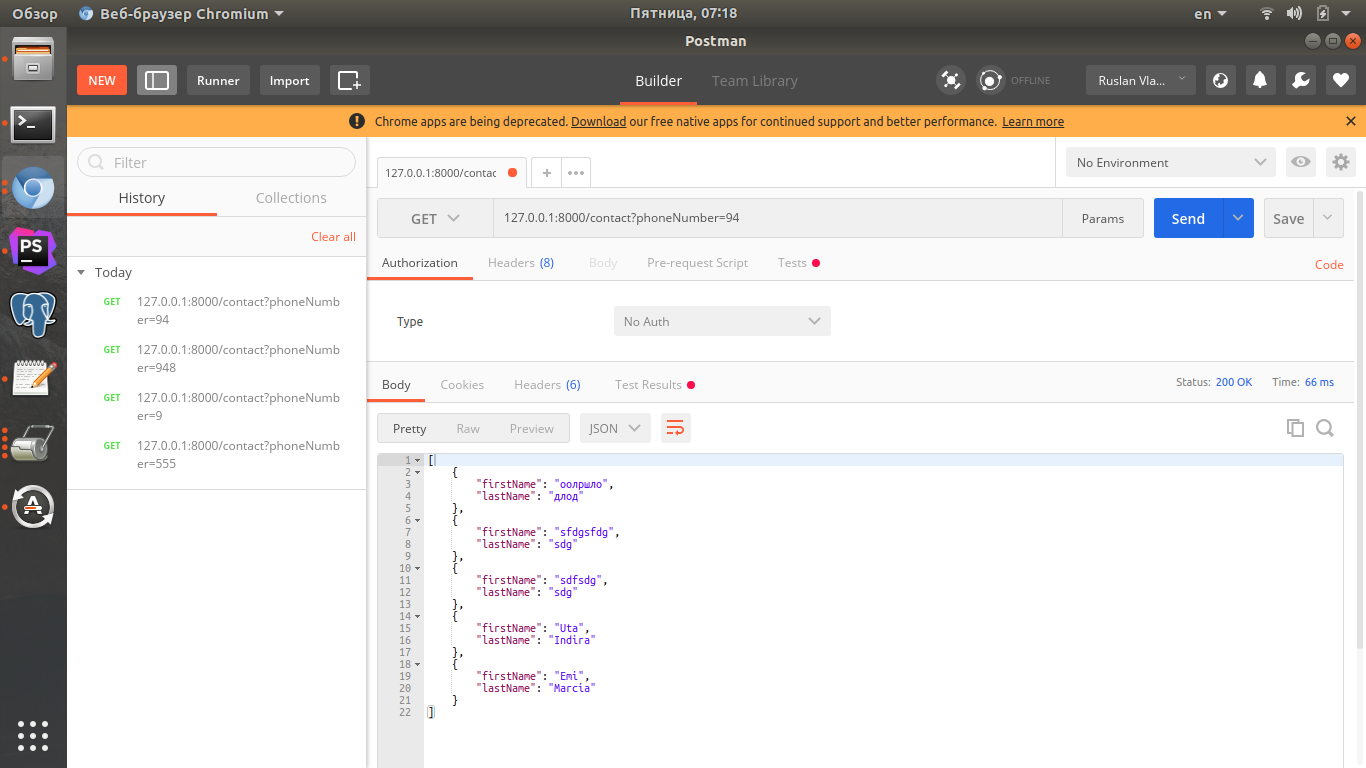
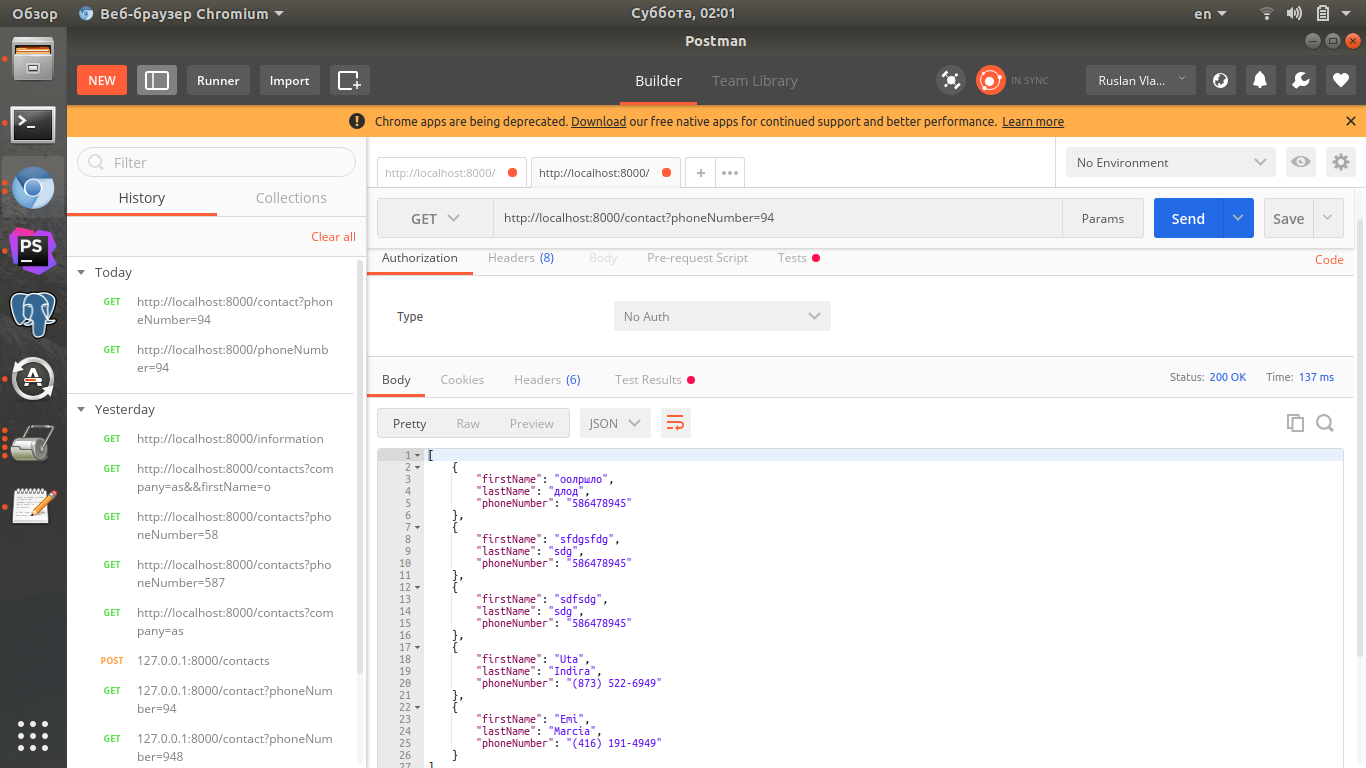
autoload

diff --git a/server/controllers/contacts.js b/server/controllers/contacts.js
@@ -76,7 +76,7 @@ module.exports = {
 
     one(req, res) {
         const opts = {
-            attributes: ['firstName', 'lastName'],
+            attributes: ['firstName', 'lastName', 'phoneNumber'],
             where : {
 
             }

diff --git a/README.md b/README.md
@@ -26,7 +26,7 @@ You should see {"message":"Welcome to the beginning of nothingness."}
 ![alt text](screenshots/post.png "save array contacts").
 
 
-######transfer request, name or last name or company and get the most matching phone numbers. Example query [http://localhost:8000/contacts?company=as&&firstName=o](http://localhost:8000/contacts?company=as&&firstName=o)
+######transfer request, name or last name or company and get the most matching phone numbers. Example query [http://localhost:8000/contacts?phoneNumber=94&company=o](http://localhost:8000/contacts?phoneNumber=94&company=o)
 ![alt text](screenshots/query.png "save array contacts").
 
 
